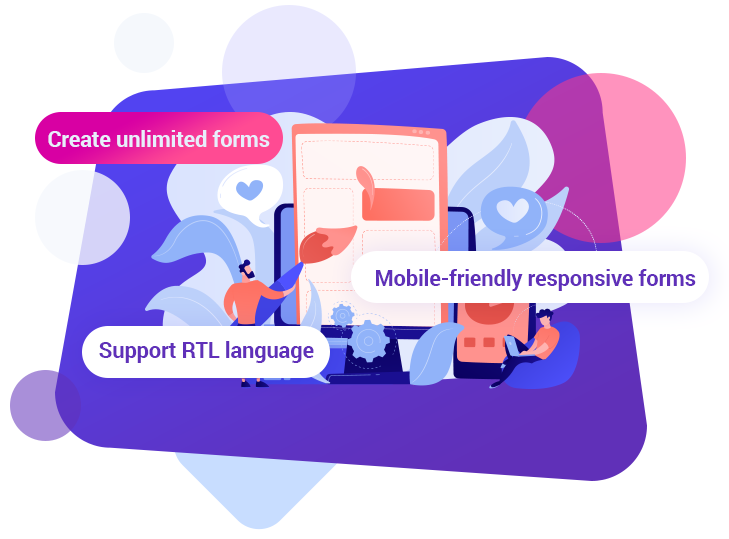
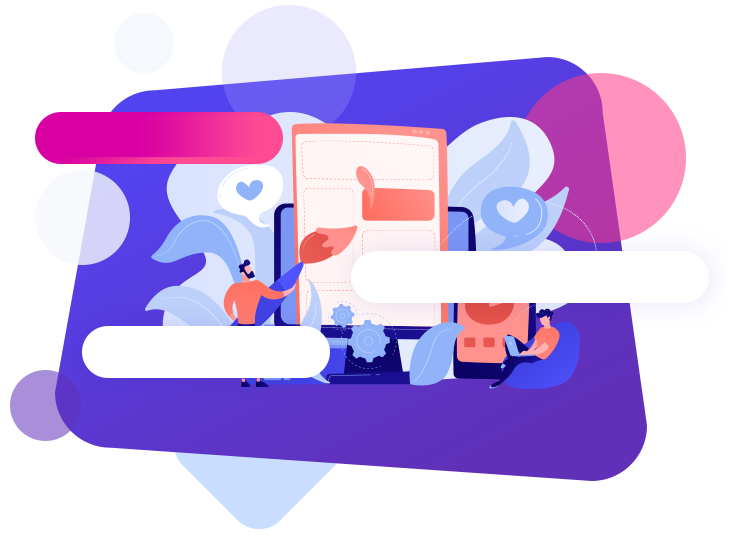
fix(first run): the Panel's illustration has no baked-in English (its three labels are phrases over it); on a phone the plan cards are stacked, the recommended Free Plus first (QA1-029)
- includes/admin/assets/image/header.png: the same artwork with empty pills (77,591 bytes, was 89,425); the labels
  heroForms / heroMobile / heroRtl are drawn over them (container-relative size, dir="auto").
- val-efb.js: the phone layout of the plan picker stacks the cards (Free Plus first) instead of a side strip that showed
  28 px of it; the strip's scrollbar and arrow hint go.
- e2e qa1-firstrun (fa_IR and ar at 375 px).

Claude-Session: https://claude.ai/code/session_01J3CdGUzfoKDyCaNAh2ybfi

Changed region(s): [[0.1207, 0.6234, 0.4225, 0.6827], [0.0604, 0.2375, 0.3621, 0.2968], [0.513, 0.5046, 0.9657, 0.5343]]

diff --git a/tests/e2e-wp/scenario-qa1.js b/tests/e2e-wp/scenario-qa1.js
@@ -35,6 +35,8 @@
  *  qa1-mailurl   QA1-023: after a site move the stored e-mail template named the old host; the update turns this plugin's
  *                address into {efb_plugin_url} once, and the Email Template designer shows the template's images from
  *                this site.
+ *  qa1-firstrun  QA1-029: the Panel's illustration carries no English of its own (its three labels are phrases drawn over
+ *                it); at 375 px the plan picker stacks its cards, the recommended Free Plus first (fa_IR, ar).
  */
 'use strict';
 
@@ -495,6 +497,26 @@ module.exports = function (S) {
       await a.context().close();
     } finally {
       q('mail-restore');
+    }
+  });
+
+  /* ================================================================== qa1-firstrun */
+  scenario('qa1-firstrun', 'QA1-029: a text-free illustration with phrases over it; the plan cards stacked on a phone, Free Plus first', async ({ adminPage }) => {
+    for (const loc of ['fa_IR', 'ar']) {
+      ctl('locale', loc);
+      try {
+        const p = await adminPage({ viewport: { width: 375, height: 812 }, locale: loc.replace('_', '-') }, 'qa1-firstrun-' + loc);
+        await p.goto(CFG.base + '/wp-admin/admin.php?page=Emsfb', { waitUntil: 'load' });
+        await p.waitForFunction(() => typeof head_introduce_efb === 'function', null, { timeout: 20000 });
+        const hero = await p.evaluate(() => { const d = document.createElement('div'); d.innerHTML = head_introduce_efb('panel'); return Array.from(d.querySelectorAll('.efb-hero > span')).map((x) => x.textContent); });
+        await p.evaluate(() => showSetupAsOverlayPage({ planOnly: true }));
+        await p.waitForSelector('.efb-plans-grid .efb-plan-card', { timeout: 10000 });
+        await sleep(800);
+        const cards = await p.evaluate(() => Array.from(document.querySelectorAll('.efb-plans-grid .efb-plan-card')).map((c) => ({ rec: c.classList.contains('efb-recommended'), top: Math.round(c.getBoundingClientRect().top), w: Math.round(c.getBoundingClientRect().width) })).sort((a, b) => a.top - b.top));
+        R.check(`qa1-firstrun (${loc} 375): three phrases over the illustration; the plan cards one under the other, the recommended Free Plus first, each nearly the screen's width`, hero.length === 3 && hero.every((x) => x.length > 3) && cards.length === 3 && cards[0].rec && cards[1].top > cards[0].top && cards.every((c) => c.w >= 300), { hero, cards });
+        await p.screenshot({ path: SHOT(`qa1-firstrun-plans-${loc}-375`) });
+        await p.context().close();
+      } finally { ctl('locale', ''); }
     }
   });
 };

diff --git a/includes/admin/assets/js/val-efb.js b/includes/admin/assets/js/val-efb.js
@@ -5850,52 +5850,16 @@ function showSetupAsOverlayPage(options) {
                 padding: 15px !important;
             }
 
+            /* QA1-029: on a phone the plans are stacked, the recommended Free Plus first (the side strip showed 28 px of it). */
             .efb-overlay-content .efb-plans-grid {
                 display: flex !important;
-                overflow-x: auto !important;
-                overflow-y: visible !important;
+                flex-direction: column !important;
                 gap: 15px !important;
-                /* 22px on top: room for the Pro badge that sits above its card. */
-                padding: 22px 5px 20px 5px !important;
-                scroll-behavior: smooth !important;
-                -webkit-overflow-scrolling: touch !important;
-                scrollbar-width: thin !important;
-                position: relative !important;
+                padding: 22px 0 0 !important;
             }
-
-            .efb-overlay-content .efb-plans-grid::after {
-                content: '‹ ‹ ‹ ‹ ‹ › › › › ›' !important;
-                position: absolute !important;
-                bottom: 0 !important;
-                left: 50% !important;
-                transform: translateX(-50%) !important;
-                font-size: 0.7rem !important;
-                color: rgba(32, 42, 141, 0.6) !important;
-                text-align: center !important;
-                animation: fadeInOut 3s ease-in-out !important;
-            }
-
-            @keyframes fadeInOut {
-                0%, 100% { opacity: 0; }
-                50% { opacity: 1; }
-            }
-
-            .efb-overlay-content .efb-plans-grid::-webkit-scrollbar {
-                height: 6px !important;
-            }
-
-            .efb-overlay-content .efb-plans-grid::-webkit-scrollbar-track {
-                background: rgba(0, 0, 0, 0.1) !important;
-                border-radius: 3px !important;
-            }
-
-            .efb-overlay-content .efb-plans-grid::-webkit-scrollbar-thumb {
-                background: rgba(32, 42, 141, 0.5) !important;
-                border-radius: 3px !important;
-            }
-
+            .efb-overlay-content .efb-plans-grid .efb-recommended { order: -1; }
             .efb-overlay-content .efb-plan-card {
-                flex: 0 0 280px !important;
+                flex: none !important;
                 margin-bottom: 0 !important;
             }
 

diff --git a/includes/admin/assets/css/admin-efb.css b/includes/admin/assets/css/admin-efb.css
@@ -2847,3 +2847,9 @@ div#Listefb-150 {
 	#settingModalEfb .efb-resp-viewer .efb-resp-messages { max-height: none; min-height: 0; overflow-y: visible; }
 }
 #modal-footer-efb.efb-confirm-footer button { font-family: inherit; }
+/* QA1-029: the Panel's illustration has no words of its own; its three labels are phrases drawn over its pills. */
+.efb-hero { position: relative; container-type: inline-size; }
+.efb-hero > span { position: absolute; display: flex; align-items: center; justify-content: center; overflow: hidden; white-space: nowrap; font-weight: 600; font-size: 2.6cqw; color: #5b34b8; unicode-bidi: plaintext; }
+.efb-hero .efb-hero-0 { left: 6.5%; top: 21%; width: 30%; height: 9%; color: #fff; }
+.efb-hero .efb-hero-1 { left: 50.5%; top: 47.5%; width: 45%; height: 8.5%; }
+.efb-hero .efb-hero-2 { left: 13.5%; top: 61.8%; width: 29.5%; height: 7.5%; }

diff --git a/includes/admin/assets/js/admin-efb.js b/includes/admin/assets/js/admin-efb.js
@@ -2044,7 +2044,7 @@ function head_introduce_efb(state) {
 
               </div>
               ${state == "create" && (efb_var.pro==false || efb_var.pro =='false') ? vType : ''}
-              ${(state != "create") ? `<div class="efb col-lg-5 col-md-12 efb-header-img-wrap"> <img src="${efb_var.images.head}" alt="" class="efb img-fluid efb-header-img"></div>` : ''}
+              ${(state != "create") ? `<div class="efb col-lg-5 col-md-12 efb-header-img-wrap"><div class="efb efb-hero"><img src="${efb_var.images.head}" alt="" class="efb img-fluid efb-header-img">${['heroForms', 'heroMobile', 'heroRtl'].map((k, i) => `<span class="efb efb-hero-${i}" dir="auto">${efb_var.text[k] || ''}</span>`).join('')}</div></div>` : ''}
     </div>
   </section> `
 }

diff --git a/includes/functions.php b/includes/functions.php
@@ -6762,6 +6762,10 @@ class efbFunction {
 			'delMsg' => __('The entry was deleted.', 'easy-form-builder'),
 			'delAddon' => __('The add-on was deleted.', 'easy-form-builder'),
 			'delDone' => __('Deleted.', 'easy-form-builder'),
+			/* translators: QA1-029: the three labels drawn over the Panel's illustration */
+			'heroForms' => __('Create unlimited forms', 'easy-form-builder'),
+			'heroMobile' => __('Mobile-friendly responsive forms', 'easy-form-builder'),
+			'heroRtl' => __('Right-to-left languages', 'easy-form-builder'),
 			/* translators: the name of the first-run guide's group of buttons */
 			'onboardingActions' => __('Setup actions', 'easy-form-builder'),
 			/* translators: Settings › Payments: moves every moved form back to its older payment field */
